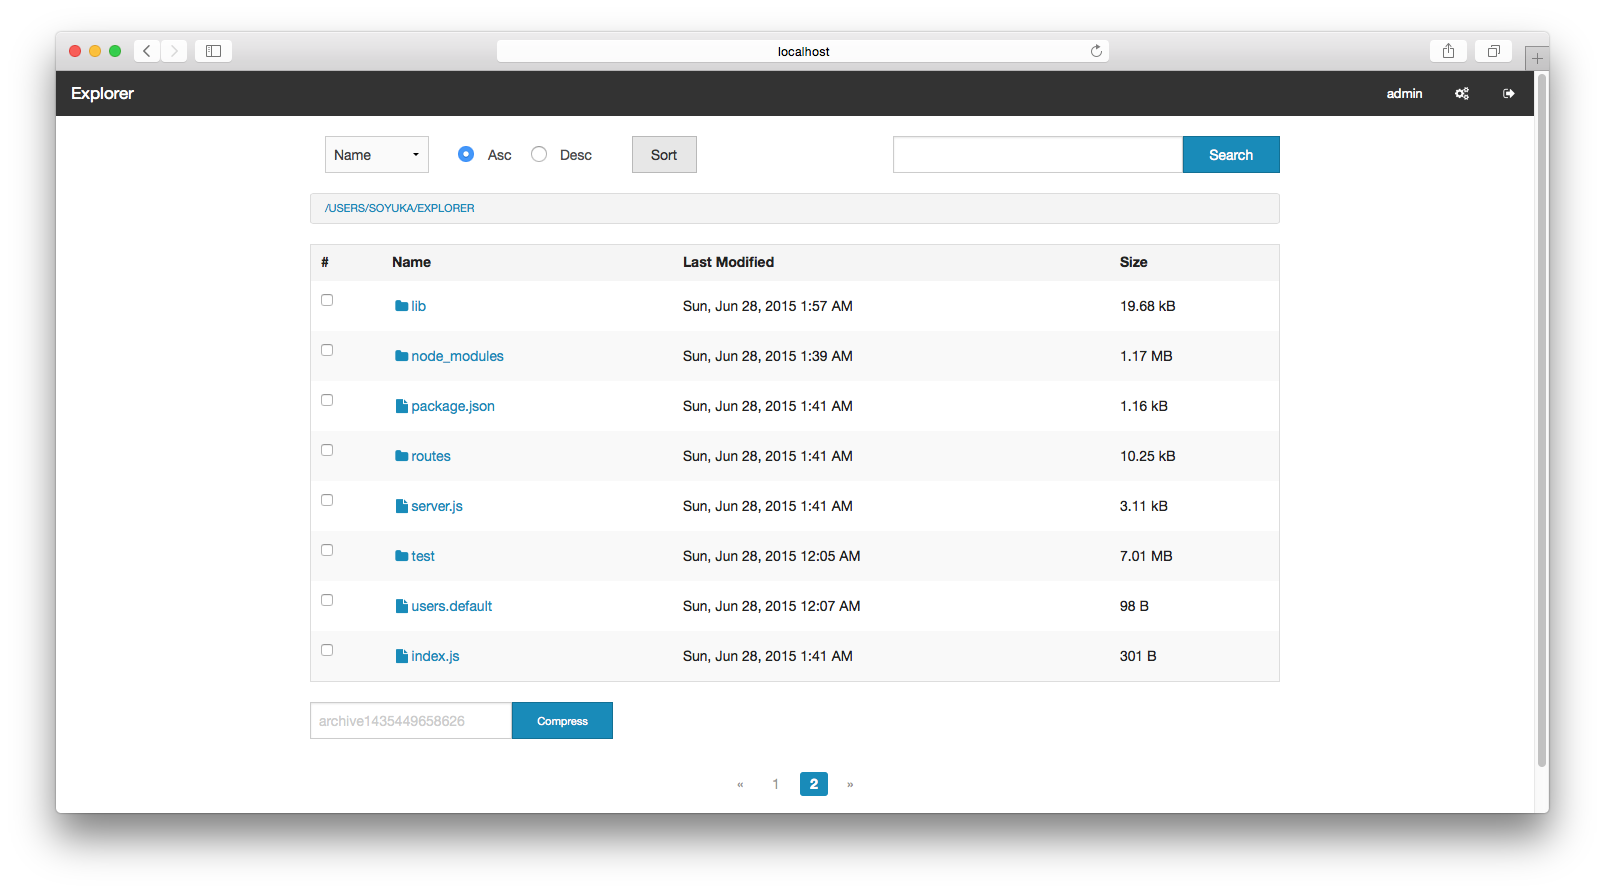
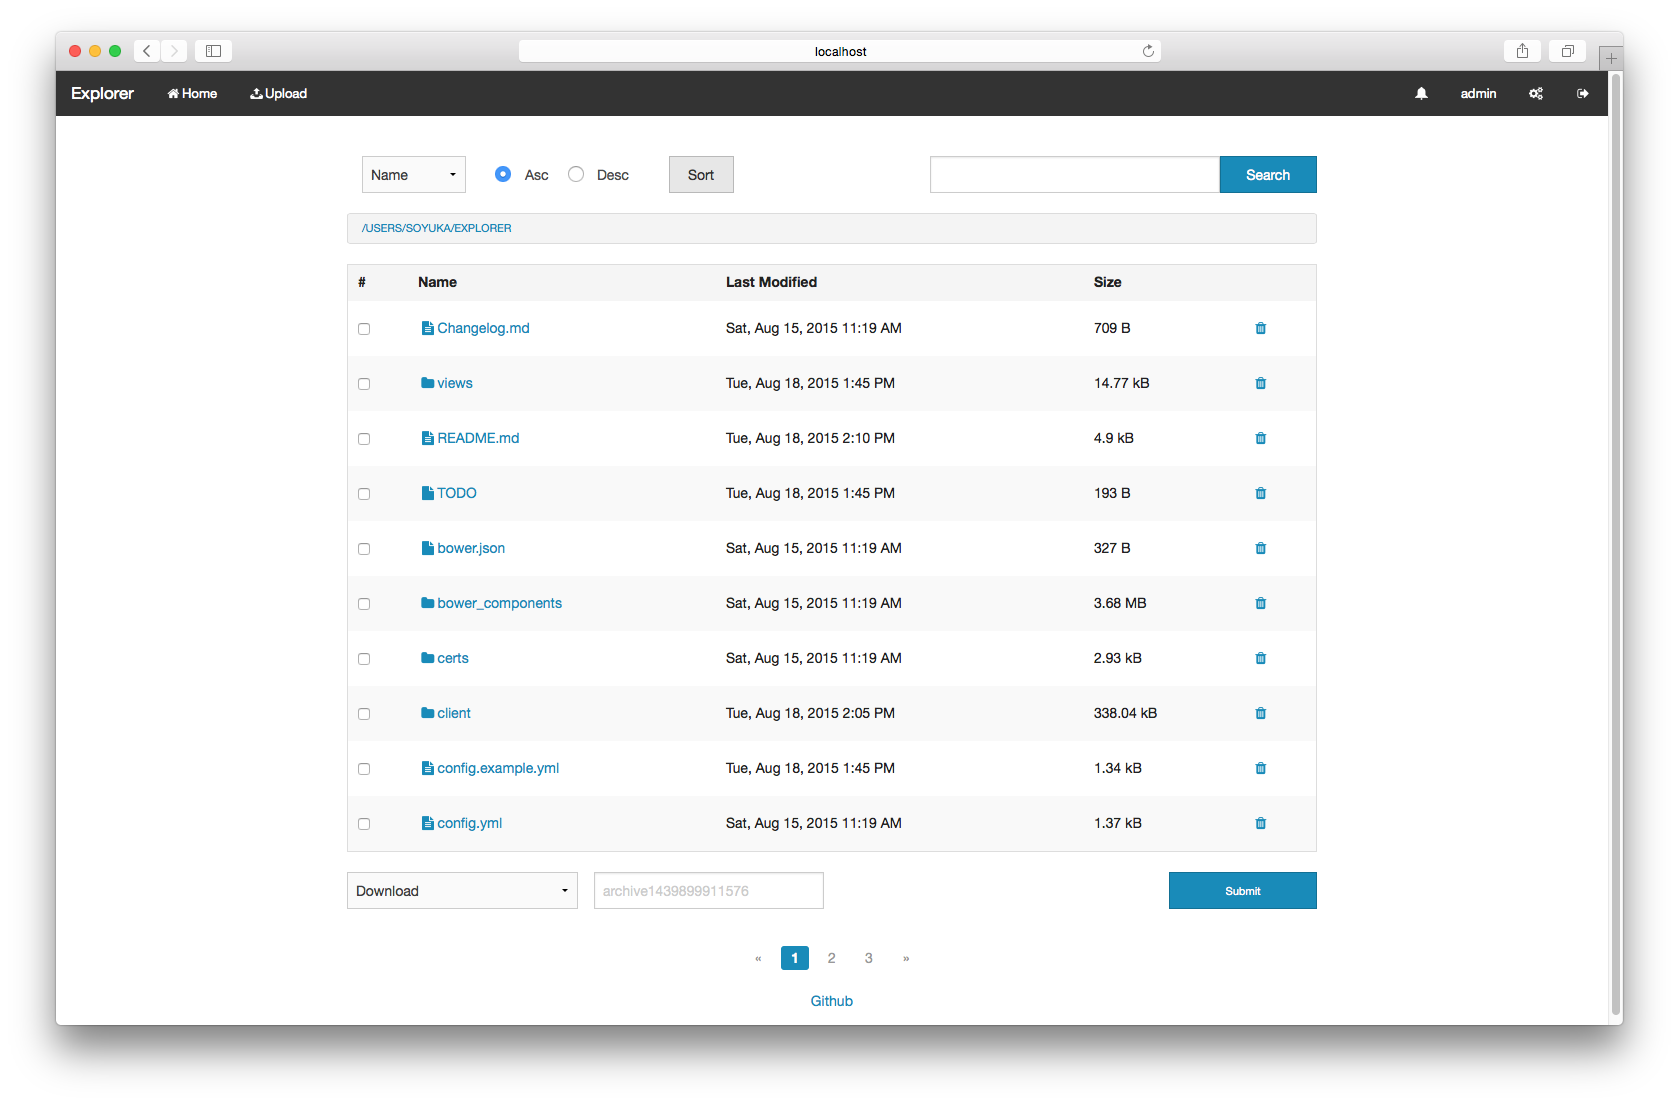
docs(): Changelog 2.0.1

diff --git a/README.md b/README.md
@@ -1,4 +1,4 @@
-# Directory Listings [![Build Status](https://travis-ci.org/soyuka/explorer.svg?branch=master)](https://travis-ci.org/soyuka/explorer)
+# ![Logo](https://raw.githubusercontent.com/soyuka/explorer/master/client/favicon-32x32.png) Explorer [![Build Status](https://travis-ci.org/soyuka/explorer.svg?branch=master)](https://travis-ci.org/soyuka/explorer)
 
 Explore and share
 

diff --git a/Changelog.md b/Changelog.md
@@ -1,4 +1,13 @@
 # Changelog
+2.0.1
+- Lots of new tests
+- Remote-upload feature
+- Archive and remote upload are done in background with notifications
+- Better download/archive UI
+- Better login UI
+- Remove archive.keep configuration option
+- ApiDoc (`npm run docs`)
+- Logo \o/
 1.2.1
 - Fix issue while compressing and not keeping archives
 1.2.0
